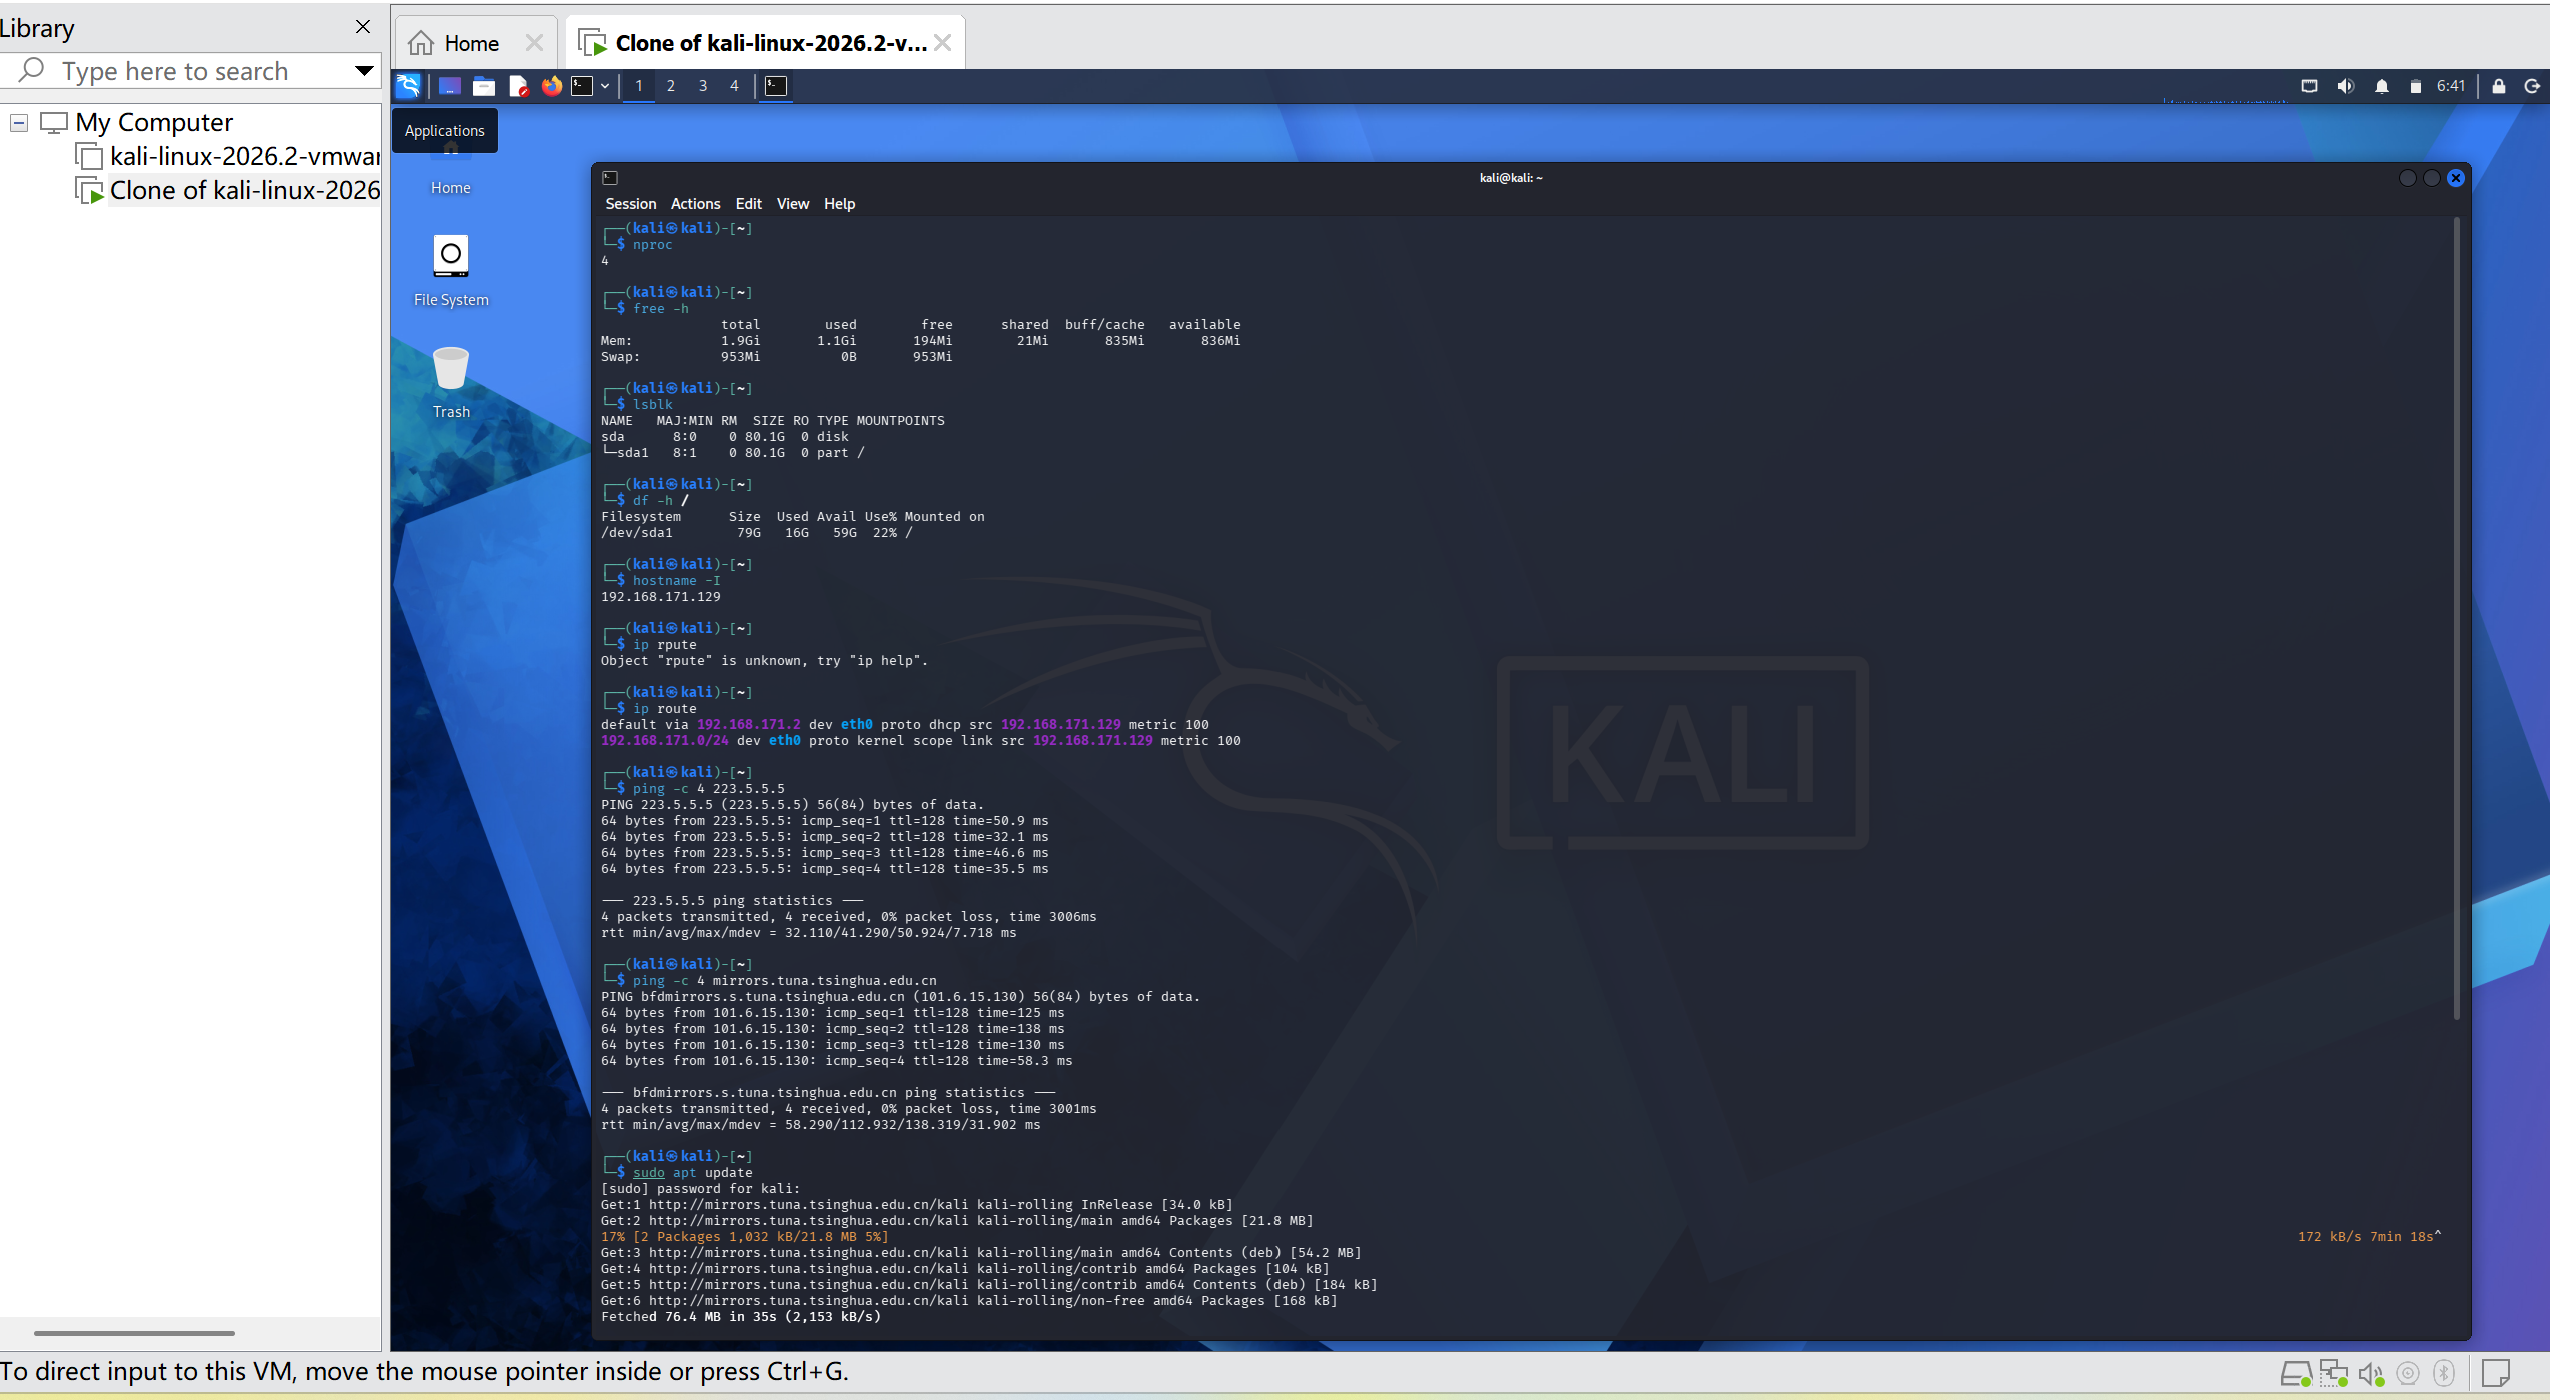
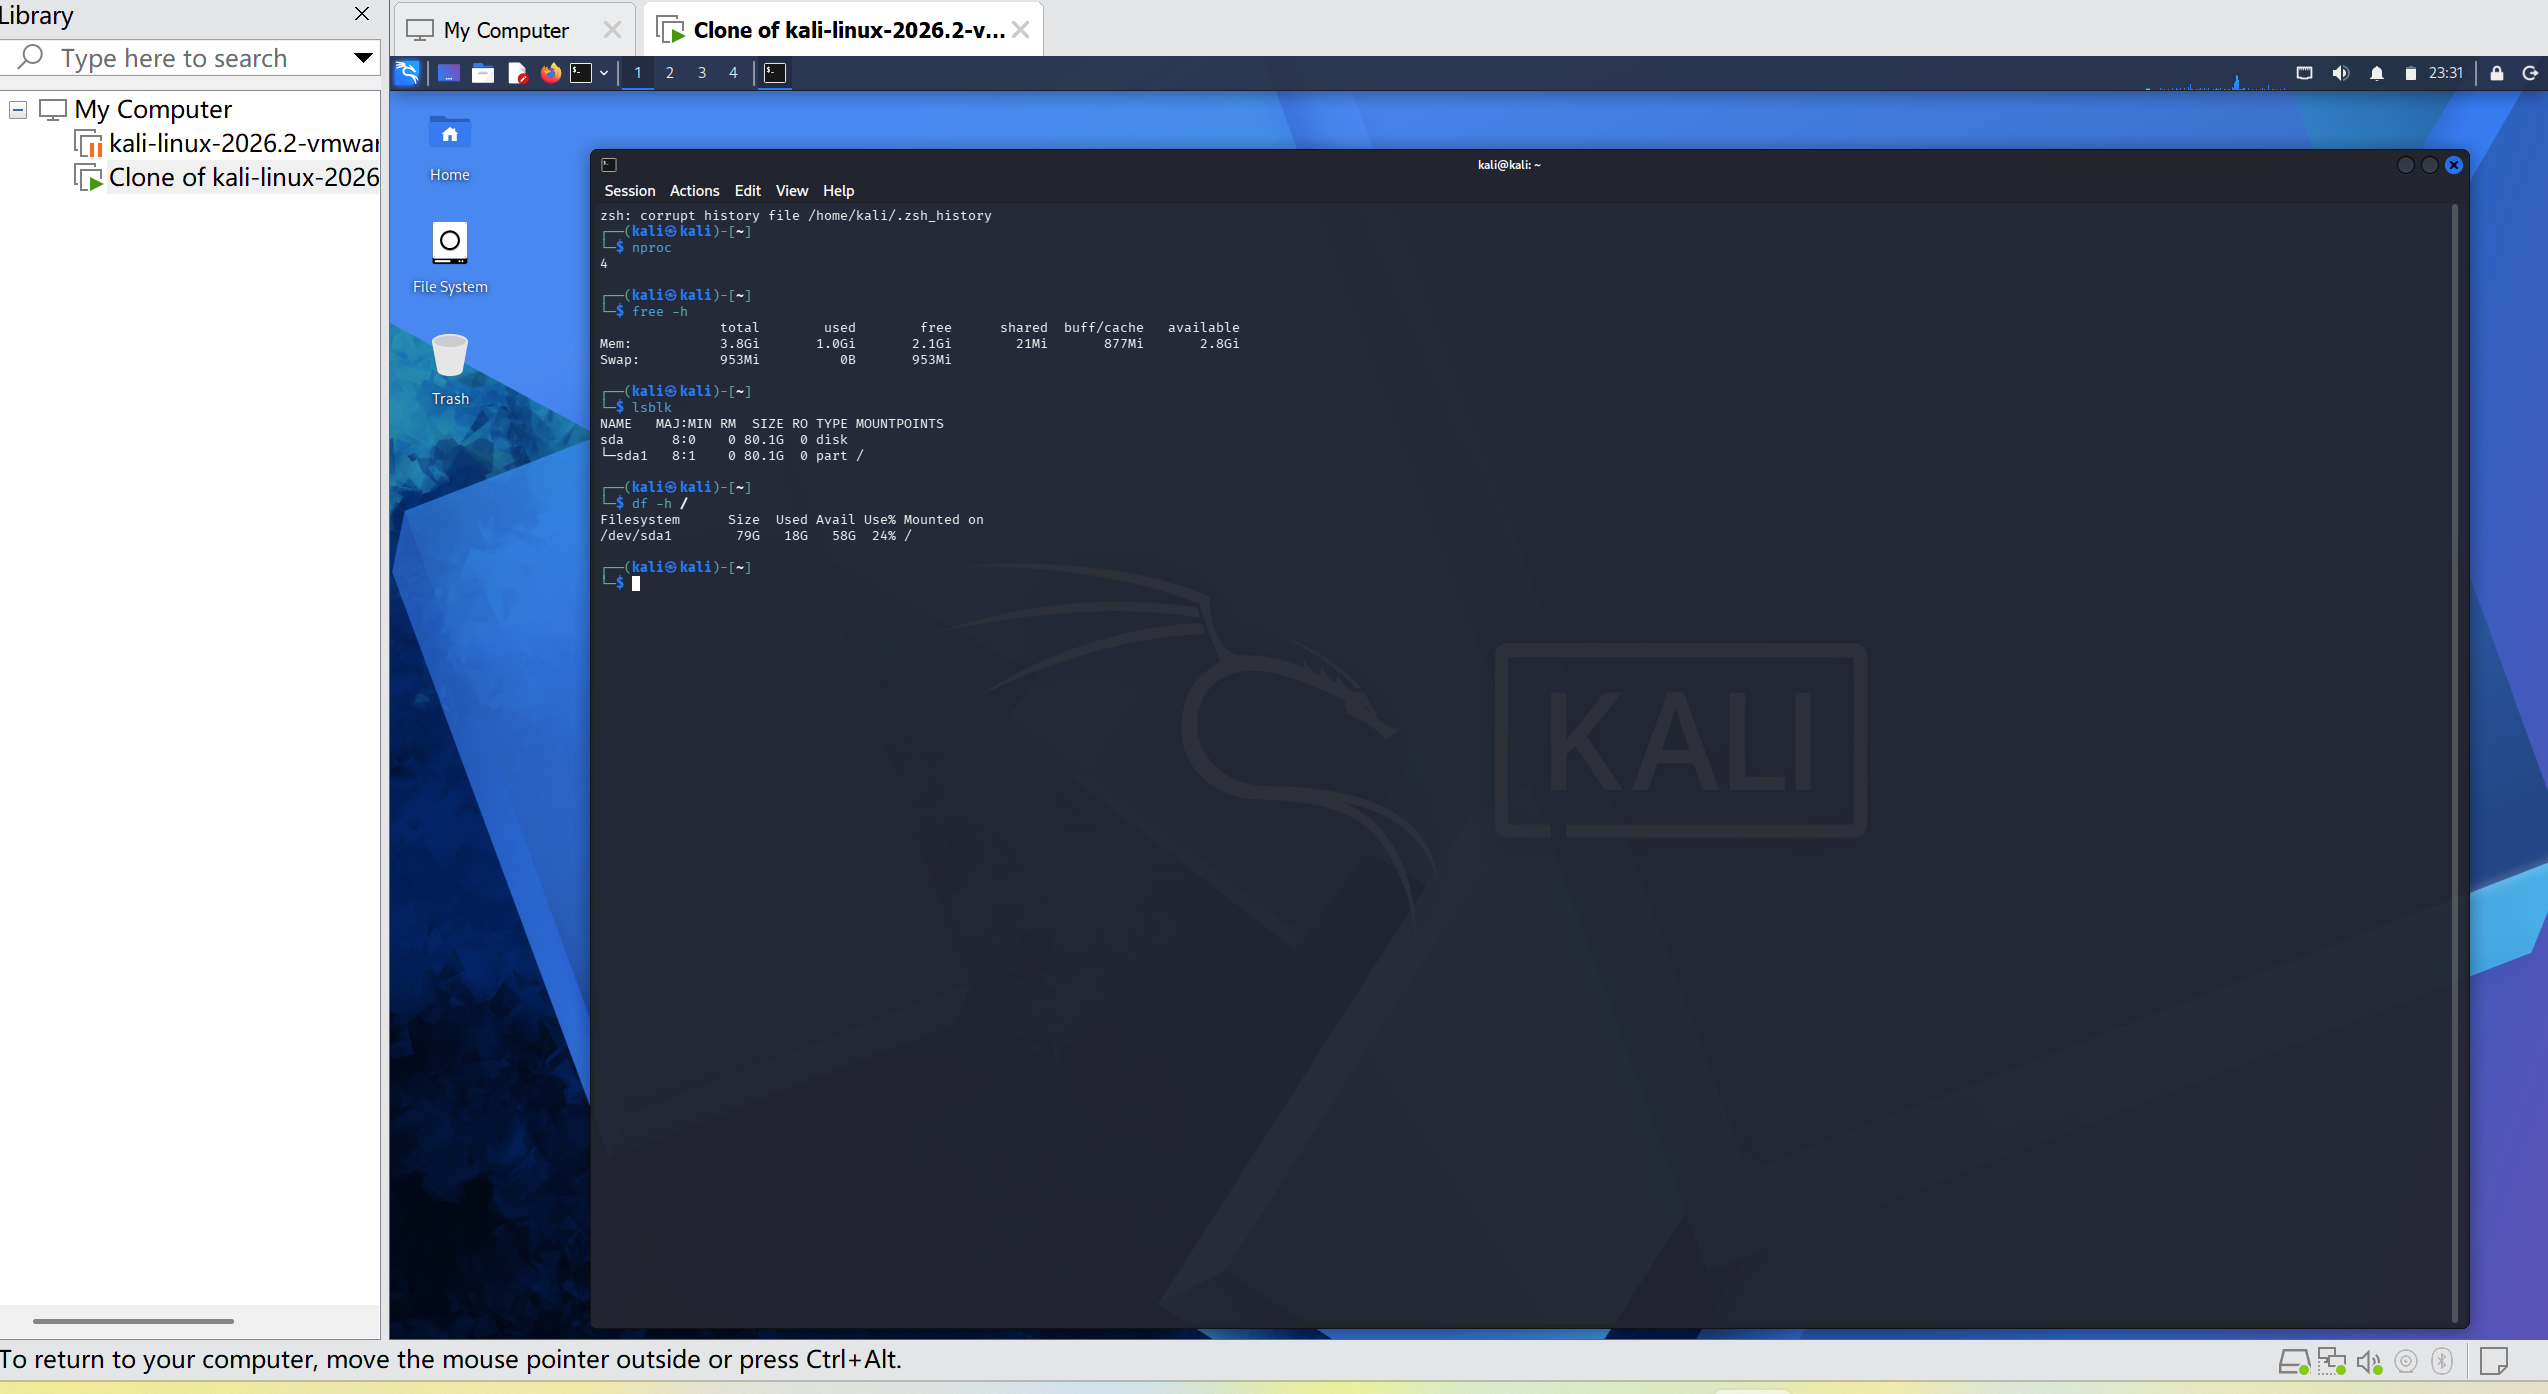
修正Lab3资源截图与对应数据

diff --git a/2026010035浦绍鑫/Lab3/Lab3.md b/2026010035浦绍鑫/Lab3/Lab3.md
@@ -224,12 +224,12 @@ df -h /
 | 项目 | 你的填写内容 |
 | :--- | :--- |
 | 宿主机内存 / CPU 核心 / 存放盘剩余空间 | 16GB / 8 核 / 345GB |
-| 选择的配置档位 | 最低可用档 |
-| 虚拟 CPU 核心数 | 2 核 |
+| 选择的配置档位 | 课程推荐档 |
+| 虚拟 CPU 核心数 | 4 核 |
 | 虚拟内存 | 4096MB（`free -h` 显示 3.8Gi） |
-| 虚磁盘容量 | 60GB（`lsblk` 中 sda 为 60G，根分区 sda2 为 59.5G） |
-| 根分区可用空间 | 50GB（`df -h /` 中 Size 59G、Used 9.4G、Use% 17%） |
-| 资源分配是否符合对应档位 | 是（2 核 / 4096MB / 60GB，满足最低可用档要求；虚磁盘由预装镜像自带，不小于 40GB 即符合课程要求） |
+| 虚磁盘容量 | 80GB（`lsblk` 中 sda 为 80.1G，单分区 sda1 80.1G 挂载到 `/`） |
+| 根分区可用空间 | 58GB（`df -h /` 中 Size 79G、Used 18G、Use% 24%） |
+| 资源分配是否符合对应档位 | 是（4 核 / 4096MB / 80GB，均不低于「至少 2 核、4GB、40GB」的要求） |
 
 ![虚机资源](imgs/lab3_resources.png)
 
@@ -714,7 +714,7 @@ sudo apt update
 | :--- | :--- | :--- |
 | 虚拟机联网 | 具有 IP 和默认路由，IP 联通与 DNS 解析正常 | 合格：IP 为 192.168.171.129，默认路由为 `default via 192.168.171.2`，`ping 223.5.5.5` 与 `ping mirrors.tuna.tsinghua.edu.cn` 各发 4 包均 0% 丢包 |
 | 软件源 | `sudo apt update` 成功，没有 `Err` 或 `Failed`（使用官方源或国内镜像站均可） | 合格：使用官方源 `http.kali.org`（仓库代号 `kali-rolling`），`Get:` 全部成功，无 `Err`/`Failed` |
-| CPU、内存、存储 | 至少 2 核、4GB、40GB，且与宿主机档位匹配 | 合格：2 核 / 4096MB（`free -h` 显示 3.8Gi）/ 60GB 虚磁盘，根分区可用 50GB，按最低可用档配置 |
+| CPU、内存、存储 | 至少 2 核、4GB、40GB，且与宿主机档位匹配 | 合格：4 核 / 4096MB（`free -h` 显示 3.8Gi）/ 80GB 虚磁盘，根分区可用 58GB |
 | MobaXterm 远程登录 | 从 Windows 用 MobaXterm 能 SSH 登录 Kali 并在远程终端执行命令 | 合格：用 IP 192.168.171.129、用户 kali、端口 22 登录成功，远程终端 `whoami` 输出 kali |
 | VSCode Remote-SSH | VSCode 能通过 Remote-SSH 连接 Kali，打开远程文件夹并在远程终端执行命令 | 合格：左下角显示 `SSH: kali-oslab`，已打开远程目录，集成终端 `uname -a` 返回 Kali 6.19.14 内核信息 |
 
